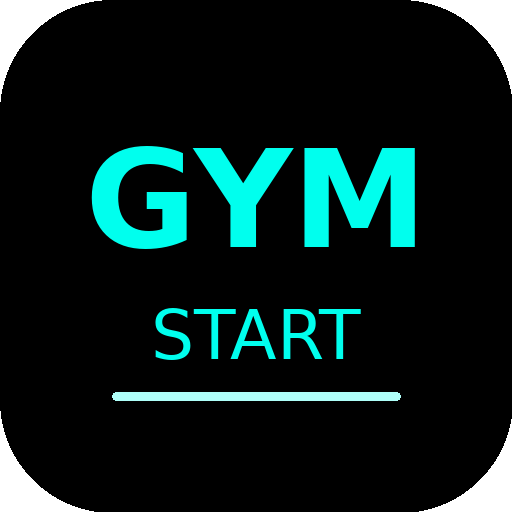
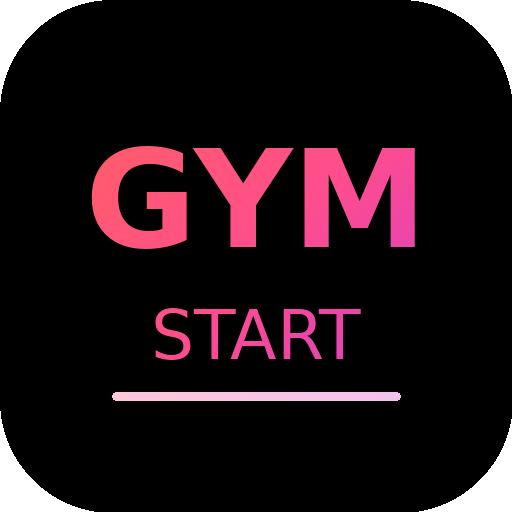
עיצוב: צביעת אייקון נשי לפלטה האנרגטית (v2.2.0-2)
האייקון הנשי (icon.png) צבע מחדש מציאן (הפלטה הישנה) לגרדיאנט
החתימה coral→rose→violet, כך שיתאים לזהות הצבעונית החדשה.
הטיפוגרפיה (GYM START) וה-anti-aliasing נשמרו במדויק — צביעה
פיקסל-אחר-פיקסל לפי עוצמת הציאן המקורית, ושמירה על שקיפות הפינות.
האייקון הגברי (icon-male.png) נשאר כחול — תואם ל-theme הגברי.

bump גרסה: 2.2.0-1 → 2.2.0-2

https://claude.ai/code/session_01DnMKdcs11eUqyhr4B83ixJ

Changed region(s): [[0.1562, 0.2812, 0.8125, 0.5], [0.2812, 0.5938, 0.7188, 0.7188], [0.2188, 0.75, 0.7812, 0.7812]]

diff --git a/sw.js b/sw.js
@@ -1,11 +1,11 @@
 /**
  * GymStart — Service Worker
- * Version: 2.2.0-1
+ * Version: 2.2.0-2
  * Cache First strategy — עבודה אופליין מלאה.
  * העלה את CACHE_VERSION בכל עדכון קוד.
  */
 
-const CACHE_VERSION = 'gymstart-v2.2.0-1';
+const CACHE_VERSION = 'gymstart-v2.2.0-2';
 
 const FILES_TO_CACHE = [
     './index.html',

diff --git a/script.js b/script.js
@@ -16,7 +16,7 @@ const CONFIG = {
     VERSION: '1.8.2'
 };
 
-const CURRENT_VERSION = '2.2.0-1'; // חייב להיות זהה ל-version.json
+const CURRENT_VERSION = '2.2.0-2'; // חייב להיות זהה ל-version.json
 
 const FEEL_MAP_TEXT = { 'easy': 'קל', 'good': 'בינוני', 'hard': 'קשה' };
 